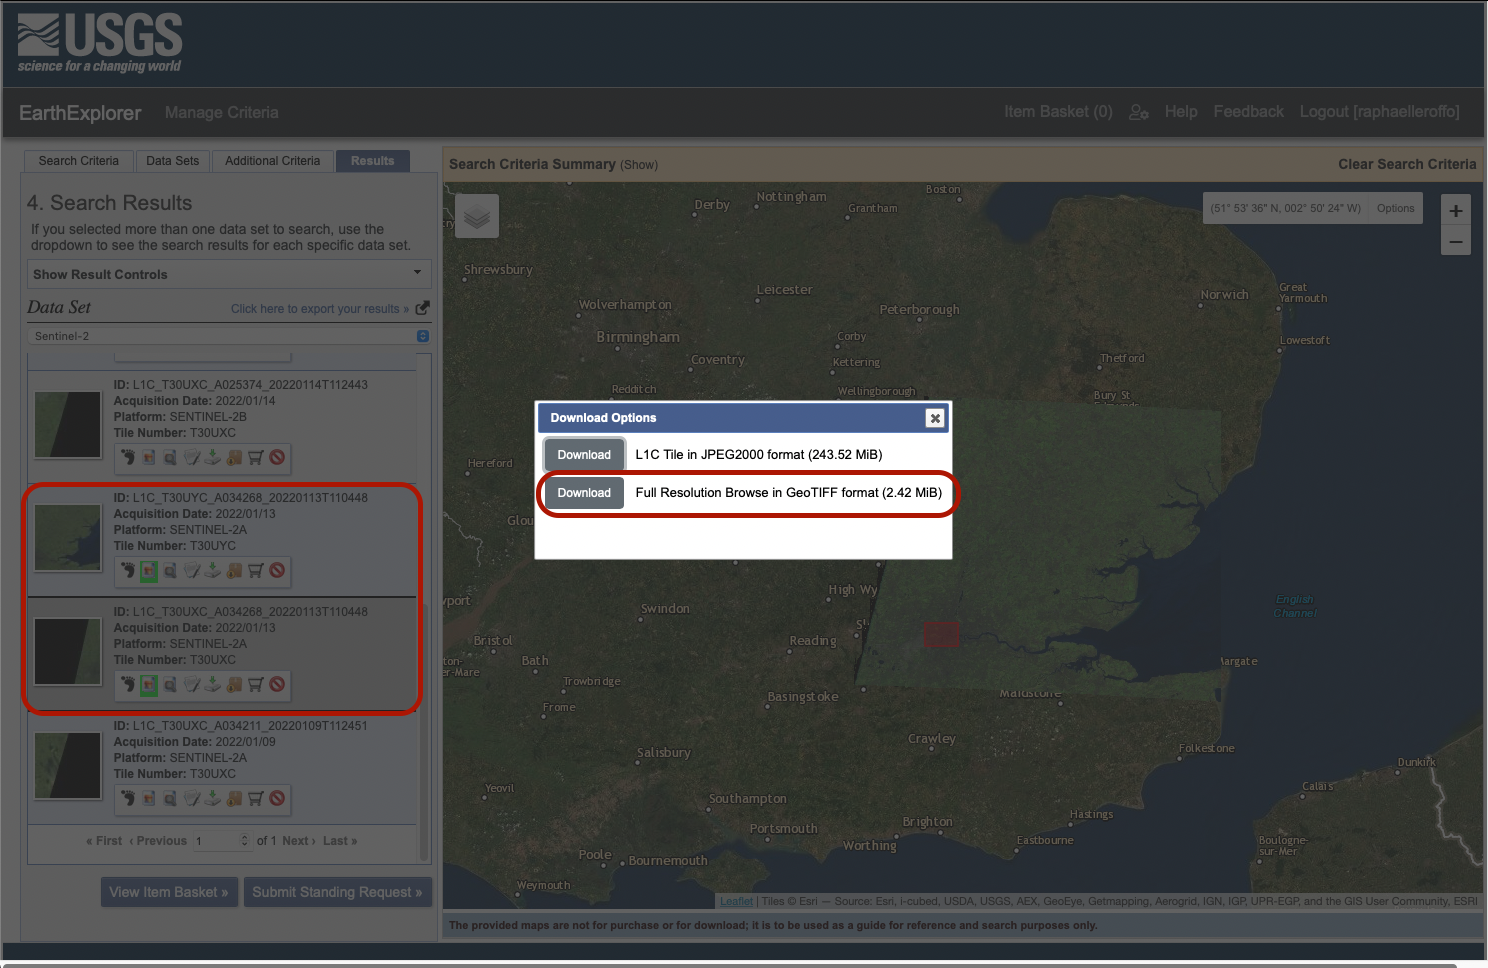
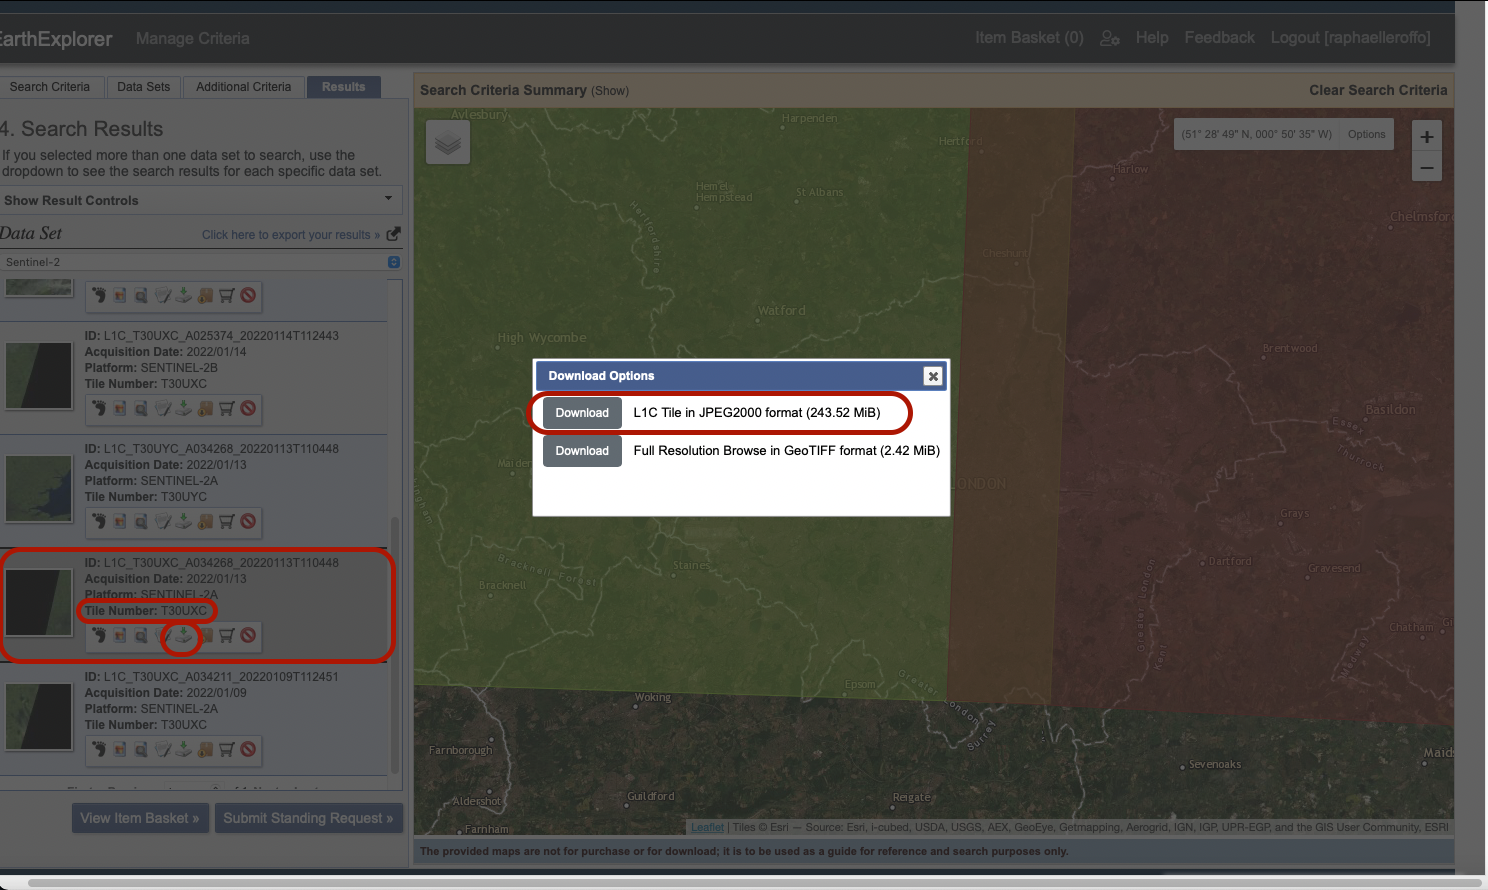
advanced tuto1

diff --git a/_posts/2022-01-23-advanced-tutorial1.md b/_posts/2022-01-23-advanced-tutorial1.md
@@ -32,7 +32,7 @@ Lecturer: Raphaëlle Roffo
 
 ## III. The NDVI
 
-The Normalized Difference Vegetation Index (NDVI) is a widely used index that can be computed from remote sensing data, allowing researchers to monitor vegetation health and land use remotely. Put simply, every surface on the planet absorbs and reflects certain ranges from the electromagnetic spectrum. Plants appear green to the human eye because the wavelengths that correspond to the colour green bounce off the chlorophyll pigments while the colour red is absorbed. So we know that **a healthy plant will reflect absorb red light**.
+The Normalized Difference Vegetation Index (NDVI) is a widely used index that can be computed from remote sensing data, allowing researchers to monitor vegetation health and land use remotely. Put simply, every surface on the planet absorbs and reflects certain ranges from the electromagnetic spectrum. Plants appear green to the human eye because the wavelengths that correspond to the colour green are bouncing off the chlorophyll pigments while the colour red is absorbed. So we know that **a healthy plant will absorb red light**. When the satellites capture less colour red, it means a lot of greenery was present on the surface being observed.
 
 We also know that during photosynthesis, plants develop more cell structures that happen to reflect near-infrared (NIR) waves. So **when a plant is growing and healthy, it will also reflect more NIR.**
 
@@ -41,7 +41,7 @@ The NDVI is simply  a way of observing the relationship between the amount of re
 **NDVI = (NIR-Red) / (NIR+Red)**
 
 
-Now, using QGIS, we are able to 
+Now, using QGIS, we are able to calculate this ratio at the level of each pixel, using 
 
 ## IV. Sourcing the data
 
@@ -51,12 +51,13 @@ We are interested in London. By default, the map is centered on Siouxville in th
 
 ![](../../../../docs/assets/images/adv-s1.png)
 
-
 &nbsp; 
 
 Click on `Use map`; when you zoom out, you'll notice it has set four pins to determine a bounding box around your previous zoom level. This determines the zone in which you will be looking for data. Click `Results` 
 
 ![](../../../../docs/assets/images/adv-s2.png)
+
+&nbsp; 
 
 In the bottom set of parameters, select dates 01-01-2022 to 23-01-2022. You can actually retrieve Sentinel data all the way back to November 2015 when it was first launched.
 
@@ -64,30 +65,196 @@ In the next tab `Cloud Cover`, set the slider to only keep images with a 0-30% c
 
 ![](../../../../docs/assets/images/adv-s3.png)
 
+&nbsp; 
+
 Next, press `Data Sets`. On the new panel, select Sentinel > Sentinel-2 data then press `Results`.
 
 ![](../../../../docs/assets/images/adv-s4.png)
 
-You can now see a series of tiles that partly or entirely cover our area of interest. By pressing the foot icon, you get an overview of the layer's footprint. By pressing the second icon (the small image), you get a preview of the actual image, directly on your canvas. You can preview several images or footprints together. Sentinel-2 breaks down the surface of the Earth into square tiles that it revisits every 2 to 10 days depending on the latitude (closer to 2-3 days in Europe). Those tiles slightly overlap to avoid gaps in the image. Notice that the London area we selected actually falls on two tiles: tile L1C_T30UXC to the West and tile L1C_T30UYC to the East. Technically, tile L1C_T30UXC contains the entire study area, but we will still go through the process of working with both tiles for this tutorial. 
+&nbsp; 
+
+You can now see a series of tiles that partly or entirely cover our area of interest. By pressing the foot icon, you get an overview of the layer's footprint. By pressing the second icon (the small image), you get a preview of the actual image, directly on your canvas. You can preview several images or footprints together. Sentinel-2 breaks down the surface of the Earth into square tiles that it revisits every 2 to 10 days depending on the latitude (closer to 2-3 days in Europe). Those tiles slightly overlap to avoid gaps in the image. Notice that the London area we selected actually falls on two tiles: tile **L1C_T30UXC** to the West and tile **L1C_T30UYC** to the East. Technically, tile **L1C_T30UXC** contains the entire study area, so we will stick to this single tile for this tutorial. 
 
 ![](../../../../docs/assets/images/adv-s5.png)
 
-The pictures taken on 18/01/2022 are cloudy and hide the area we're interested in. Instead, it seems that the pictures taken on 13/01/2022 are clear and cloud-free. These are the ones we are intereested in. Click the fifth icon to download those two pictures. Select GeoTIFF format (this is a special photo format that also encodes geographic location)
+&nbsp; 
+
+The pictures taken on 18/01/2022 are cloudy and hide the area we're interested in. Instead, it seems that the pictures taken on 13/01/2022 are clear and cloud-free. These are the ones we are intereested in. Click the fifth icon to download those two pictures. Select JPEG format:
 
 ![](../../../../docs/assets/images/adv-s6.png)
 
+&nbsp; 
 
-Note that the download is launched from a pop-up window. If nothing happens after you click `Download`, your browser might be blocking the pop-up and you should be able to allow the pop-up from your browser's address bar. Save the two files to a `Session1` folder. 
+Note that the download is launched from a pop-up window. If nothing happens after you click `Download`, your browser might be blocking the pop-up and you should be able to allow the pop-up from your browser's address bar. Save the downloaded folder to a `Advanced-Session1` folder. 
 
 &nbsp; 
 
 ## V. Processing the data in QGIS
 
 &nbsp; 
+### 1. Loading the data
 
-Open QGIS and create a shortcut to your `Session 1` folder.
+&nbsp; 
 
-### 1. 
+Open QGIS and create a Favourites shortcut to your `Advanced-Session 1` folder. Navigate in the folder you just downloaded: `GRANULE` > `L1C_T30UXC_A034268_20220113T110448` > `IMG_DATA`. Select all the files preceded by a checker symbol (it represents raster bands) and drag them onto your canvas.
+
+![](../../../../docs/assets/images/adv-s7.png)
+
+&nbsp; 
+
+If you double-click (or right click > Properties) one of these bands from your `Layers` panel, and have a look at the layer information, you can see that the laeyrs have already been assigned a CRS (UTM zone 30 North) and that each band may have a different resolution. Band 1 has a 60x60m resolution, Band 3 and Band 2 have a 10x10m resolution, etc. 
+
+![](../../../../docs/assets/images/adv-s8.png)
+
+&nbsp; 
+
+Each band represent one section of the electromagnetic spectrum (You can find more information on the [ESA website](https://dragon3.esa.int/web/sentinel/user-guides/sentinel-2-msi/resolutions/spatial))
+
+
+![](../../../../docs/assets/images/adv-s9.png)
+
+&nbsp; 
+
+### 2. Building a multi-band raster using a virtual layer
+
+&nbsp; 
+
+We are now going to combine each of these bands. In your `Processing Toolbox` panel, look for "Virtual raster". Select `Build virtual raster` from the `GDAL` > `Raster Miscelleanous` toolbox.
+
+![](../../../../docs/assets/images/adv-s10.png)
+
+&nbsp; 
+
+In the Input Layers, choose all the layers except `B8A`. Click `OK`.
+
+![](../../../../docs/assets/images/adv-s11.png)
+
+&nbsp; 
+
+In the Resolution parameter, choose `Highest`, and make sure to check the box `Place each input file into a separate band`. This is very important as it will allow us to perform the calculations needed to compute the NDVI. 
+
+
+![](../../../../docs/assets/images/adv-s12.png)
+
+&nbsp; 
+
+
+The rest of the parameters can be left to their default values, then make sure to save the output to a file in your `Advanced-Session1` folder(don't specify the extension, it will be done automatically). 
+
+![](../../../../docs/assets/images/adv-s13.png)
+
+&nbsp; 
+
+
+Press `Run`. Once it's run, close the window. You can remove all the other layers and only keep your multiband raster.
+
+![](../../../../docs/assets/images/adv-s14.png)
+
+&nbsp; 
+
+### 3. Exploring the raster bands 
+
+
+You can  notice that a large chunk of the tile does not contain data (visualised in black). We do however have a combination of multiple raster bands, that match various different sections of the electromagnetic spectrum, avaialble in this single file. You can zoom in so that the West London area fills your canvas.
+
+Double-click the layer and go to the `Symbology` tab. Choose the Rendering type `Multiband color`. Using this mode, you can represent the "intensity" of each section of the electromagnetic spectrum using a colour (Red, Green or Blue). You can combine three bands to see features emerge from the picture.
+
+For instance, using Red = Band 11, Green = Band 5 and Blue = Band 3 and the Min/Max value settings you get this image:
+
+![](../../../../docs/assets/images/adv-s15.png)
+
+&nbsp; 
+
+Using Red = Band 8, Green = Band 4 and Blue = Band 3 and mean +/- standard deviation as min/max values settings, the picture that emerges is quite different:
+
+![](../../../../docs/assets/images/adv-s16.png)
+
+&nbsp; 
+
+
+### 4. Calculating NDVI
+
+
+Now let's actually build our NDVI index. In order to do so, we are going to perform operations between the different bands values, at the pixel level. On any given pixel, we will take the value of Band 8 which represent near-infrared (NIR), and the value of band 4 which represents the visible colour Red, and run the calculation **NDVI = (NIR-Red) / (NIR+Red)**. To do so, we open the raster calculator (from your Processing toolbar or top menu `Raster` > `Raster Calculator`). You can double-click on raster bands and operators to build the expression: ` ( "Multiband-London@8" - "Multiband-London@4" )  /  ( "Multiband-London@8" + "Multiband-London@4" ) `. Specify where to save your layer (in your `Advanced-Session1` folder), and name it `NDVI.tif`. Press OK and let it run - it may take a few minutes depending on your computer.
+
+![](../../../../docs/assets/images/adv-s17.png)
+
+&nbsp; 
+
+Your layer is now ready! 
+
+![](../../../../docs/assets/images/adv-s18.png)
+
+&nbsp; 
+
+We can play with symbology, using single band pseudocolour and for example the Greens colour ramp. You can also use Quantiles as the classification mode to emphasize contrast in your picture. 
+
+![](../../../../docs/assets/images/adv-s19.png)
+
+&nbsp; 
+
+If you move further north on your canvas towards more rural areas, you will see very clearly the green intensify.
+
+![](../../../../docs/assets/images/adv-s20.png)
+
+&nbsp; 
+
+
+### 5. Reclassifying the data
+
+You may have noticed that the values range from -0.99 to 1. This makes sense given that the index is measuring the ratio of red light against near-infrared waves. Put simply, whenever the amount of red colour reflected decreases, we interpret it as a lot of red light being absorbed by chlorophyll. Whenever NDVI > 0 , we can classify the surface as vegetation.
+
+To reclassify the data we have into two categories (landuse = maybe some or a lot of vegetation VS landuse = zero vegetation), we can use again the Raster Calculator. The formula we can use is simply: `"NDVI@1" > 0`. We can save that layer as `vegetation.tif` in our work folder.
+
+![](../../../../docs/assets/images/adv-s21.png)
+
+&nbsp; 
+
+Next, have a look at the symbology of this `Vegetation` layer. Using the Paletted/Unique Values rendering style, you can hit classify and apply a dark blue colour to the value 0, and a green colour to the value 1. Press OK. While this is not as nuanced as the previous quantile classification, is allows us to clearly identify all the water bodies and heavily urbanized areas, that are definitely not vegetation.
+
+![](../../../../docs/assets/images/adv-s22.png)
+
+&nbsp; 
+
+Now, we can actually produce a finer reclassification using a different tool. In your `Processing Toolbox` look for "Reclassify by table" under `Raster analysis`. Pick `NDVI.tif` as the Raster layer, then click on the three dots next to the `Reclassification table` parameter.
+
+![](../../../../docs/assets/images/adv-s23.png)
+
+&nbsp; 
+
+Click `Add Row` fuive times to add 5 rows. We are basically going to reclassify all the values in the NDVI layer. We can only use numbers when reclassifying but when this step is complete, we can translate those 5 categories into meaningful classes (0= no vegetation, 1= very little vegetation, etc). For now, when the value is negative, we assign it to the category `0`, when it has a positive value but close to 0 (between 0 and 0.1) we assign it to the category `1`, between 0.1 and 0.25 we assign it to the category `2`, between 0.25 and 0.4 to the category 3 and finally for all values above 0.4 we assign it to the category `4`.
+
+![](../../../../docs/assets/images/adv-s24.png)
+
+&nbsp; 
+
+Press OK and go back to the other parameters. Make sure the range boundaries you are picking are such that our minimum values are included but maximum values are excluded. Choose `Integer16` as the output type since our new 5 values are full, non decimal numbers. Save as "VegetationClassification" and choose TIF files format.
+
+![](../../../../docs/assets/images/adv-s25.png)
+
+&nbsp; 
+
+You now have a new, more finely classified layer to represent vegetation density!
+
+![](../../../../docs/assets/images/adv-s26.png)
+
+&nbsp; 
+
+Let's as a final step use the symbology tool again to use a green colour ramp and edit the legend. First, use the Paletted/Unique colours rendering style. Choose the green colour ramp then press `Classify` to bring up the values. Then you can double click on the legend values to edit them manually: 
+- 0 = No vegetation
+- 1 = Built-up areas
+- 2 = Grassland
+- 3 = Sparse vegetation
+- 4 = Dense vegetation
+
+![](../../../../docs/assets/images/adv-s27.png)
+
+&nbsp; 
+
+Well done, you have successfully calculated the vegetation index for West London based on January 2022 satellite imagery! You can save your project as a QGZ file, or practice exporting the map using print layouts.
+
+![](../../../../docs/assets/images/adv-s28.png)
+
 &nbsp; 
 
 &nbsp; 
